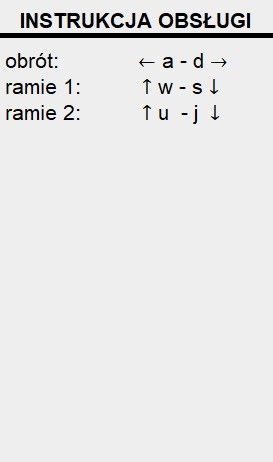
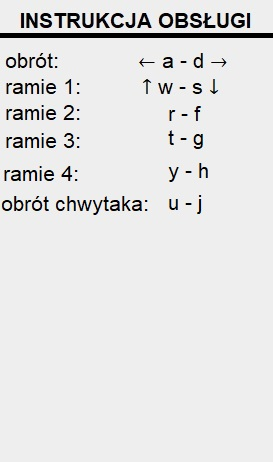
multi key

diff --git a/src/com/company/Robot_3D.java b/src/com/company/Robot_3D.java
@@ -41,7 +41,6 @@ public class Robot_3D extends JFrame implements ActionListener, KeyListener {
     TransformGroup tg_obraczacz_chwytaka = new TransformGroup();
     TransformGroup tg_chwytak = new TransformGroup();
 
-
     Transform3D t3d_podloga = new Transform3D();
     Transform3D t3d_podstawka = new Transform3D();
     Transform3D t3d_pierwszy_obraczacz = new Transform3D();
@@ -50,6 +49,19 @@ public class Robot_3D extends JFrame implements ActionListener, KeyListener {
     Transform3D t3d_pochylacz_chwytaka = new Transform3D();
     Transform3D t3d_obracacz_chwytaka = new Transform3D();
     Transform3D t3d_chwytak = new Transform3D();
+
+    boolean key_a;
+    boolean key_d;
+    boolean key_w;
+    boolean key_s;
+    boolean key_r;
+    boolean key_f;
+    boolean key_t;
+    boolean key_g;
+    boolean key_y;
+    boolean key_h;
+    boolean key_u;
+    boolean key_j;
 
     Robot_3D() {
         super("Robot_3D Sebastian Krajna Kacper Bober");
@@ -117,12 +129,11 @@ public class Robot_3D extends JFrame implements ActionListener, KeyListener {
 
         Scene s_pierwsze_ramie = wczytajPlikRamienia("resources/pierwsze_ramiev2.obj");
 
-
         tg_pierwsze_ramie.setCapability(TransformGroup.ALLOW_TRANSFORM_WRITE);
         tg_pierwsze_ramie.addChild(s_pierwsze_ramie.getSceneGroup());
 
         Transform3D t3d_przesuniecie = new Transform3D();
-        t3d_przesuniecie.set(new Vector3f(0, 0.62f, -0.13f));   //przesuwam obiekt z orgin na miejsce
+        t3d_przesuniecie.set(new Vector3f(0, 0.62f, -0.13f)); // przesuwam obiekt z orgin na miejsce
         t3d_pierwsze_ramie.mul(t3d_przesuniecie);
 
         tg_pierwsze_ramie.setTransform(t3d_pierwsze_ramie);
@@ -136,7 +147,7 @@ public class Robot_3D extends JFrame implements ActionListener, KeyListener {
         tg_drugie_ramie.setCapability(TransformGroup.ALLOW_TRANSFORM_WRITE);
         tg_drugie_ramie.addChild(s_drugie_ramie.getSceneGroup());
 
-        t3d_przesuniecie.set(new Vector3f(0.04f,0.75f,-0.02f)); //przesuwam obiekt z orgin na miejsce
+        t3d_przesuniecie.set(new Vector3f(0.04f, 0.75f, -0.02f)); // przesuwam obiekt z orgin na miejsce
         t3d_drugie_ramie.mul(t3d_przesuniecie);
 
         tg_drugie_ramie.setTransform(t3d_drugie_ramie);
@@ -149,7 +160,7 @@ public class Robot_3D extends JFrame implements ActionListener, KeyListener {
         tg_pochylacz_chwytaka.setCapability(TransformGroup.ALLOW_TRANSFORM_WRITE);
         tg_pochylacz_chwytaka.addChild(s_pochylacz_chwytaka.getSceneGroup());
 
-        t3d_przesuniecie.set(new Vector3f(-0.05f,0.00f,-0.75f)); //przesuwam obiekt z orgin na miejsce
+        t3d_przesuniecie.set(new Vector3f(-0.05f, 0.00f, -0.75f)); // przesuwam obiekt z orgin na miejsce
         t3d_pochylacz_chwytaka.mul(t3d_przesuniecie);
 
         tg_pochylacz_chwytaka.setTransform(t3d_pochylacz_chwytaka);
@@ -162,7 +173,7 @@ public class Robot_3D extends JFrame implements ActionListener, KeyListener {
         tg_obraczacz_chwytaka.setCapability(TransformGroup.ALLOW_TRANSFORM_WRITE);
         tg_obraczacz_chwytaka.addChild(s_obracacz_chwytaka.getSceneGroup());
 
-        t3d_przesuniecie.set(new Vector3f(0.1f,-0.01f,-0.2f)); //przesuwam obiekt z orgin na miejsce
+        t3d_przesuniecie.set(new Vector3f(0.1f, -0.01f, -0.2f)); // przesuwam obiekt z orgin na miejsce
         t3d_obracacz_chwytaka.mul(t3d_przesuniecie);
 
         tg_obraczacz_chwytaka.setTransform(t3d_obracacz_chwytaka);
@@ -175,7 +186,7 @@ public class Robot_3D extends JFrame implements ActionListener, KeyListener {
         tg_chwytak.setCapability(TransformGroup.ALLOW_TRANSFORM_WRITE);
         tg_chwytak.addChild(s_chwytak.getSceneGroup());
 
-        t3d_przesuniecie.set(new Vector3f(0.0f,0.00f,-0.18f)); //przesuwam obiekt z orgin na miejsce
+        t3d_przesuniecie.set(new Vector3f(0.0f, 0.00f, -0.18f)); // przesuwam obiekt z orgin na miejsce
         t3d_chwytak.mul(t3d_przesuniecie);
 
         tg_chwytak.setTransform(t3d_chwytak);
@@ -192,7 +203,7 @@ public class Robot_3D extends JFrame implements ActionListener, KeyListener {
         orbit.setSchedulingBounds(bounds);
         orbit.setTranslateEnable(false);
 
-        orbit.setRotFactors(0.5, 0.2);
+        orbit.setRotFactors(0.5, 0.);
         orbit.setReverseRotate(true);
 
         viewingPlatform.setViewPlatformBehavior(orbit);
@@ -238,94 +249,168 @@ public class Robot_3D extends JFrame implements ActionListener, KeyListener {
         return panel_menu;
     }
 
-    /** Obsluga zdarzen **/
     public void actionPerformed(ActionEvent e) {
         if (e.getSource() == reset_kamery) {
             Transform3D przesuniecie_obserwatora = new Transform3D();
-            przesuniecie_obserwatora.set(new Vector3f(0.0f, 0.0f, 10.0f));
+            przesuniecie_obserwatora.set(new Vector3f(0.0f, 0.0f, 12.0f));
 
             simpleU.getViewingPlatform().getViewPlatformTransform().setTransform(przesuniecie_obserwatora);
+        } else if (e.getSource() == start) {
+            x += 1;
+            Transform3D przesuniecie_obserwatora = new Transform3D();
+            przesuniecie_obserwatora.set(new Vector3f(0.0f, x, 12.0f));
+            simpleU.getViewingPlatform().getViewPlatformTransform().setTransform(przesuniecie_obserwatora);
+        } else if (e.getSource() == zacznij_nagrywanie) {
+
+        }
+    }
+
+    public void wykonajRuch() {
+        Transform3D akcja = new Transform3D();
+        if (key_a == true) {
+            akcja.rotY(Math.PI / 180);
+            t3d_pierwszy_obraczacz.mul(akcja);
+            tg_pierwszy_obraczacz.setTransform(t3d_pierwszy_obraczacz);
+        }
+        if (key_d == true) {
+            akcja.rotY(-Math.PI / 180);
+            t3d_pierwszy_obraczacz.mul(akcja);
+            tg_pierwszy_obraczacz.setTransform(t3d_pierwszy_obraczacz);
+        }
+        if (key_w == true) {
+            akcja.rotX(Math.PI / 180);
+            t3d_pierwsze_ramie.mul(akcja);
+            tg_pierwsze_ramie.setTransform(t3d_pierwsze_ramie);
+        }
+        if (key_s == true) {
+            akcja.rotX(-Math.PI / 180);
+            t3d_pierwsze_ramie.mul(akcja);
+            tg_pierwsze_ramie.setTransform(t3d_pierwsze_ramie);
+        }
+        if (key_r == true) {
+            akcja.rotX(Math.PI / 180);
+            t3d_drugie_ramie.mul(akcja);
+            tg_drugie_ramie.setTransform(t3d_drugie_ramie);
+        }
+        if (key_f == true) {
+            akcja.rotX(-Math.PI / 180);
+            t3d_drugie_ramie.mul(akcja);
+            tg_drugie_ramie.setTransform(t3d_drugie_ramie);
+        }
+        if (key_t == true) {
+            akcja.rotX(Math.PI / 180);
+            t3d_pochylacz_chwytaka.mul(akcja);
+            tg_pochylacz_chwytaka.setTransform(t3d_pochylacz_chwytaka);
+        }
+        if (key_g == true) {
+            akcja.rotX(-Math.PI / 180);
+            t3d_pochylacz_chwytaka.mul(akcja);
+            tg_pochylacz_chwytaka.setTransform(t3d_pochylacz_chwytaka);
+        }
+        if (key_y == true) {
+            akcja.rotY(Math.PI / 180);
+            t3d_obracacz_chwytaka.mul(akcja);
+            tg_obraczacz_chwytaka.setTransform(t3d_obracacz_chwytaka);
+        }
+        if (key_h == true) {
+            akcja.rotY(-Math.PI / 180);
+            t3d_obracacz_chwytaka.mul(akcja);
+            tg_obraczacz_chwytaka.setTransform(t3d_obracacz_chwytaka);
+        }
+        if (key_u == true) {
+            akcja.rotZ(Math.PI / 180);
+            t3d_chwytak.mul(akcja);
+            tg_chwytak.setTransform(t3d_chwytak);
+        }
+        if (key_j == true) {
+            akcja.rotZ(-Math.PI / 180);
+            t3d_chwytak.mul(akcja);
+            tg_chwytak.setTransform(t3d_chwytak);
         }
     }
 
     public void keyPressed(KeyEvent e) {
-        Transform3D akcja = new Transform3D();
         switch (e.getKeyCode()) {
-
             case KeyEvent.VK_A:
-                akcja.rotY(Math.PI / 180);
-                t3d_pierwszy_obraczacz.mul(akcja);
-                tg_pierwszy_obraczacz.setTransform(t3d_pierwszy_obraczacz);
+                key_a = true;
                 break;
-
             case KeyEvent.VK_D:
-                akcja.rotY(-Math.PI / 180);
-                t3d_pierwszy_obraczacz.mul(akcja);
-                tg_pierwszy_obraczacz.setTransform(t3d_pierwszy_obraczacz);
+                key_d = true;
                 break;
-
             case KeyEvent.VK_W:
-                akcja.rotX(Math.PI / 180);
-                t3d_pierwsze_ramie.mul(akcja);
-                tg_pierwsze_ramie.setTransform(t3d_pierwsze_ramie);
+                key_w = true;
                 break;
-
             case KeyEvent.VK_S:
-                akcja.rotX(-Math.PI / 180);
-                t3d_pierwsze_ramie.mul(akcja);
-                tg_pierwsze_ramie.setTransform(t3d_pierwsze_ramie);
+                key_s = true;
                 break;
-
             case KeyEvent.VK_R:
-                akcja.rotX(Math.PI / 180);
-                t3d_drugie_ramie.mul(akcja);
-                tg_drugie_ramie.setTransform(t3d_drugie_ramie);
+                key_r = true;
                 break;
-
             case KeyEvent.VK_F:
-                akcja.rotX(-Math.PI / 180);
-                t3d_drugie_ramie.mul(akcja);
-                tg_drugie_ramie.setTransform(t3d_drugie_ramie);
+                key_f = true;
                 break;
-
-            case KeyEvent.VK_1:
-                akcja.rotX(Math.PI / 180);
-                t3d_pochylacz_chwytaka.mul(akcja);
-                tg_pochylacz_chwytaka.setTransform(t3d_pochylacz_chwytaka);
+            case KeyEvent.VK_T:
+                key_t = true;
                 break;
-
-            case KeyEvent.VK_2:
-                akcja.rotX(-Math.PI / 180);
-                t3d_pochylacz_chwytaka.mul(akcja);
-                tg_pochylacz_chwytaka.setTransform(t3d_pochylacz_chwytaka);
+            case KeyEvent.VK_G:
+                key_g = true;
                 break;
-            case KeyEvent.VK_3:
-                akcja.rotY(Math.PI / 180);
-                t3d_obracacz_chwytaka.mul(akcja);
-                tg_obraczacz_chwytaka.setTransform(t3d_obracacz_chwytaka);
+            case KeyEvent.VK_Y:
+                key_y = true;
                 break;
-
-            case KeyEvent.VK_4:
-                akcja.rotY(-Math.PI / 180);
-                t3d_obracacz_chwytaka.mul(akcja);
-                tg_obraczacz_chwytaka.setTransform(t3d_obracacz_chwytaka);
+            case KeyEvent.VK_H:
+                key_h = true;
                 break;
-            case KeyEvent.VK_5:
-                akcja.rotZ(Math.PI / 180);
-                t3d_chwytak.mul(akcja);
-                tg_chwytak.setTransform(t3d_chwytak);
+            case KeyEvent.VK_U:
+                key_u = true;
                 break;
-
-            case KeyEvent.VK_6:
-                akcja.rotZ(-Math.PI / 180);
-                t3d_chwytak.mul(akcja);
-                tg_chwytak.setTransform(t3d_chwytak);
+            case KeyEvent.VK_J:
+                key_j = true;
                 break;
-
         }
+        wykonajRuch();
+
     }
 
     public void keyReleased(KeyEvent e) {
+        switch (e.getKeyCode()) {
+            case KeyEvent.VK_A:
+                key_a = false;
+                break;
+            case KeyEvent.VK_D:
+                key_d = false;
+                break;
+            case KeyEvent.VK_W:
+                key_w = false;
+                break;
+            case KeyEvent.VK_S:
+                key_s = false;
+                break;
+            case KeyEvent.VK_R:
+                key_r = false;
+                break;
+            case KeyEvent.VK_F:
+                key_f = false;
+                break;
+            case KeyEvent.VK_T:
+                key_t = false;
+                break;
+            case KeyEvent.VK_G:
+                key_g = false;
+                break;
+            case KeyEvent.VK_Y:
+                key_y = false;
+                break;
+            case KeyEvent.VK_H:
+                key_h = false;
+                break;
+            case KeyEvent.VK_U:
+                key_u = false;
+                break;
+            case KeyEvent.VK_J:
+                key_j = false;
+                break;
+        }
     }
 
     public void keyTyped(KeyEvent e) {
